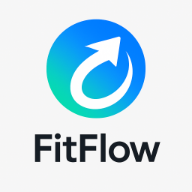
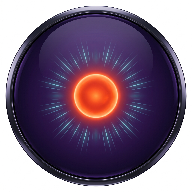
Updates

diff --git a/404.html b/404.html
@@ -11,8 +11,8 @@
     <meta name="apple-mobile-web-app-status-bar-style" content="black-translucent" />
     <meta name="apple-mobile-web-app-title" content="Fitness" />
     
-    <title>Fitness Journey</title>
-    <script type="module" crossorigin src="/fitness-journey/assets/index-ada38b93.js"></script>
+    <title>Ember</title>
+    <script type="module" crossorigin src="/fitness-journey/assets/index-a243583d.js"></script>
     <link rel="stylesheet" href="/fitness-journey/assets/index-326c1c2d.css">
   <link rel="manifest" href="/fitness-journey/manifest.webmanifest"><script id="vite-plugin-pwa:register-sw" src="/fitness-journey/registerSW.js"></script></head>
   <body style="background-color: #0B0316; margin: 0; padding: 0;">

diff --git a/index.html b/index.html
@@ -11,8 +11,8 @@
     <meta name="apple-mobile-web-app-status-bar-style" content="black-translucent" />
     <meta name="apple-mobile-web-app-title" content="Fitness" />
     
-    <title>Fitness Journey</title>
-    <script type="module" crossorigin src="/fitness-journey/assets/index-ada38b93.js"></script>
+    <title>Ember</title>
+    <script type="module" crossorigin src="/fitness-journey/assets/index-a243583d.js"></script>
     <link rel="stylesheet" href="/fitness-journey/assets/index-326c1c2d.css">
   <link rel="manifest" href="/fitness-journey/manifest.webmanifest"><script id="vite-plugin-pwa:register-sw" src="/fitness-journey/registerSW.js"></script></head>
   <body style="background-color: #0B0316; margin: 0; padding: 0;">

diff --git a/sw.js b/sw.js
@@ -1,1 +1,1 @@
-if(!self.define){let e,i={};const n=(n,s)=>(n=new URL(n+".js",s).href,i[n]||new Promise((i=>{if("document"in self){const e=document.createElement("script");e.src=n,e.onload=i,document.head.appendChild(e)}else e=n,importScripts(n),i()})).then((()=>{let e=i[n];if(!e)throw new Error(`Module ${n} didn’t register its module`);return e})));self.define=(s,c)=>{const r=e||("document"in self?document.currentScript.src:"")||location.href;if(i[r])return;let t={};const o=e=>n(e,r),d={module:{uri:r},exports:t,require:o};i[r]=Promise.all(s.map((e=>d[e]||o(e)))).then((e=>(c(...e),t)))}}define(["./workbox-5ffe50d4"],(function(e){"use strict";self.skipWaiting(),e.clientsClaim(),e.precacheAndRoute([{url:"assets/index-326c1c2d.css",revision:null},{url:"assets/index-ada38b93.js",revision:null},{url:"index.html",revision:"22124c23ed8fa1dd0acd804f2fc00ec7"},{url:"registerSW.js",revision:"2ea1740a7b2c2329348fff9fc1f4a8a9"},{url:"icon-192.png",revision:"56d9ebfa98ab4c8b2f9532c8be86ca53"},{url:"icon-512.png",revision:"25fcd8ccc6d7273f4583c6fb65fbd744"},{url:"manifest.webmanifest",revision:"9400e0073b7538c4d7edcdca9c0dc133"}],{}),e.cleanupOutdatedCaches(),e.registerRoute(new e.NavigationRoute(e.createHandlerBoundToURL("index.html")))}));
+if(!self.define){let e,i={};const n=(n,s)=>(n=new URL(n+".js",s).href,i[n]||new Promise((i=>{if("document"in self){const e=document.createElement("script");e.src=n,e.onload=i,document.head.appendChild(e)}else e=n,importScripts(n),i()})).then((()=>{let e=i[n];if(!e)throw new Error(`Module ${n} didn’t register its module`);return e})));self.define=(s,r)=>{const f=e||("document"in self?document.currentScript.src:"")||location.href;if(i[f])return;let t={};const o=e=>n(e,f),l={module:{uri:f},exports:t,require:o};i[f]=Promise.all(s.map((e=>l[e]||o(e)))).then((e=>(r(...e),t)))}}define(["./workbox-5ffe50d4"],(function(e){"use strict";self.skipWaiting(),e.clientsClaim(),e.precacheAndRoute([{url:"assets/index-326c1c2d.css",revision:null},{url:"assets/index-a243583d.js",revision:null},{url:"index.html",revision:"85b46cd80f723a3966b842f14aa96d3f"},{url:"registerSW.js",revision:"2ea1740a7b2c2329348fff9fc1f4a8a9"},{url:"icon-192.png",revision:"bc68d2d4bf2367893676ee0e946768fe"},{url:"icon-512.png",revision:"212e81f681dd1fd43573ff361bb7ebaf"},{url:"manifest.webmanifest",revision:"e4257ffc4f782f1fef5b400e37a80682"}],{}),e.cleanupOutdatedCaches(),e.registerRoute(new e.NavigationRoute(e.createHandlerBoundToURL("index.html")))}));